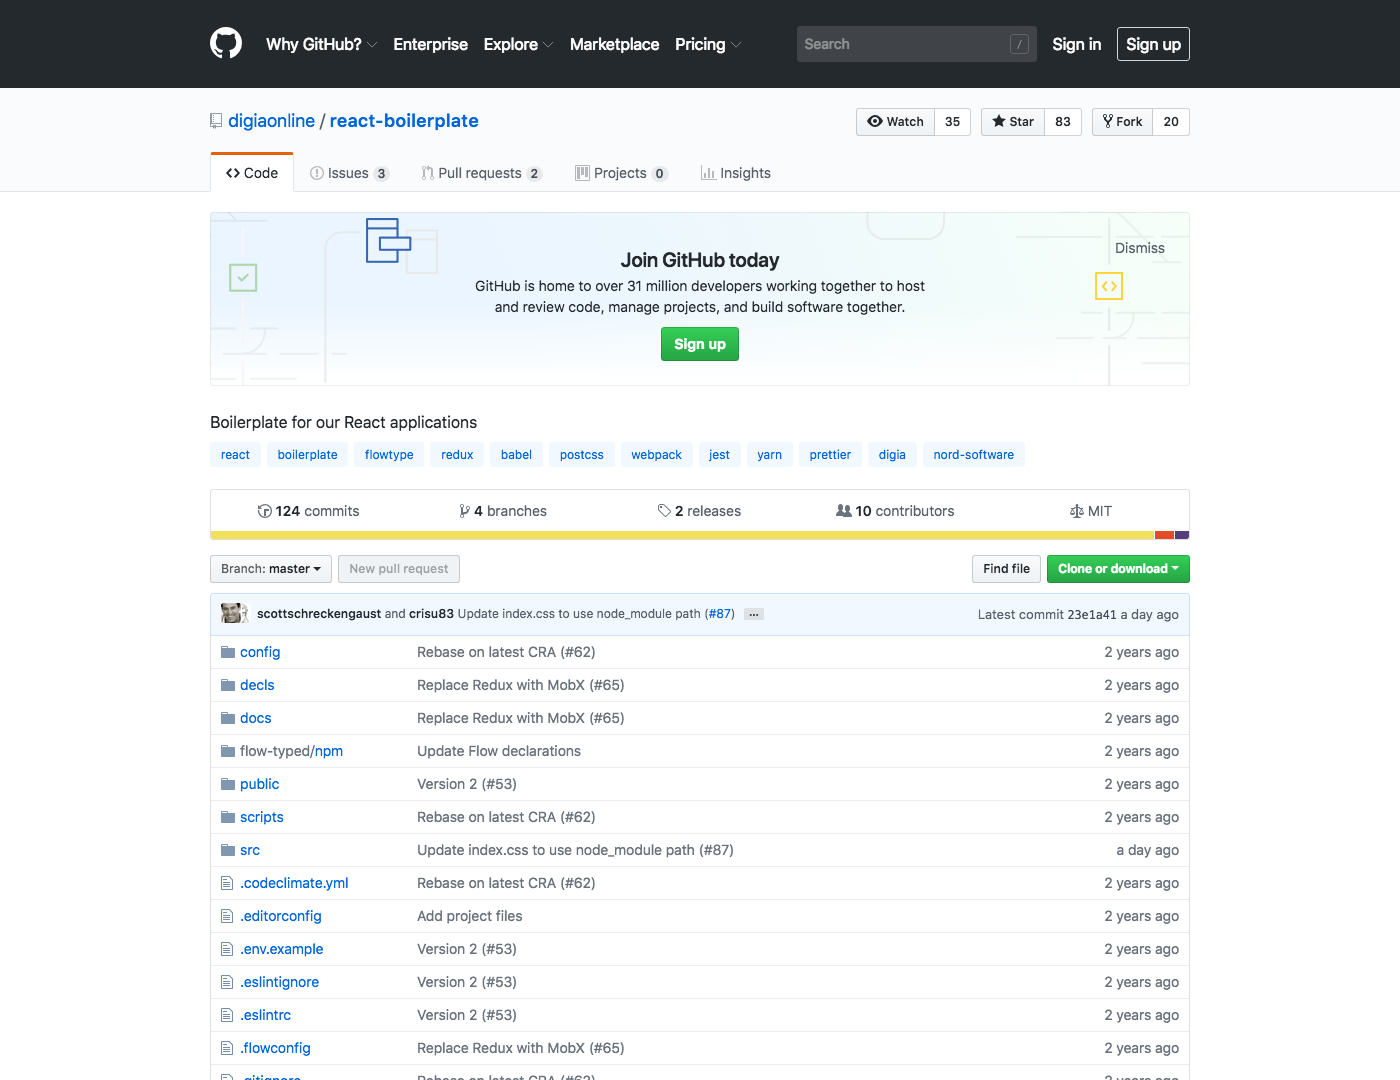
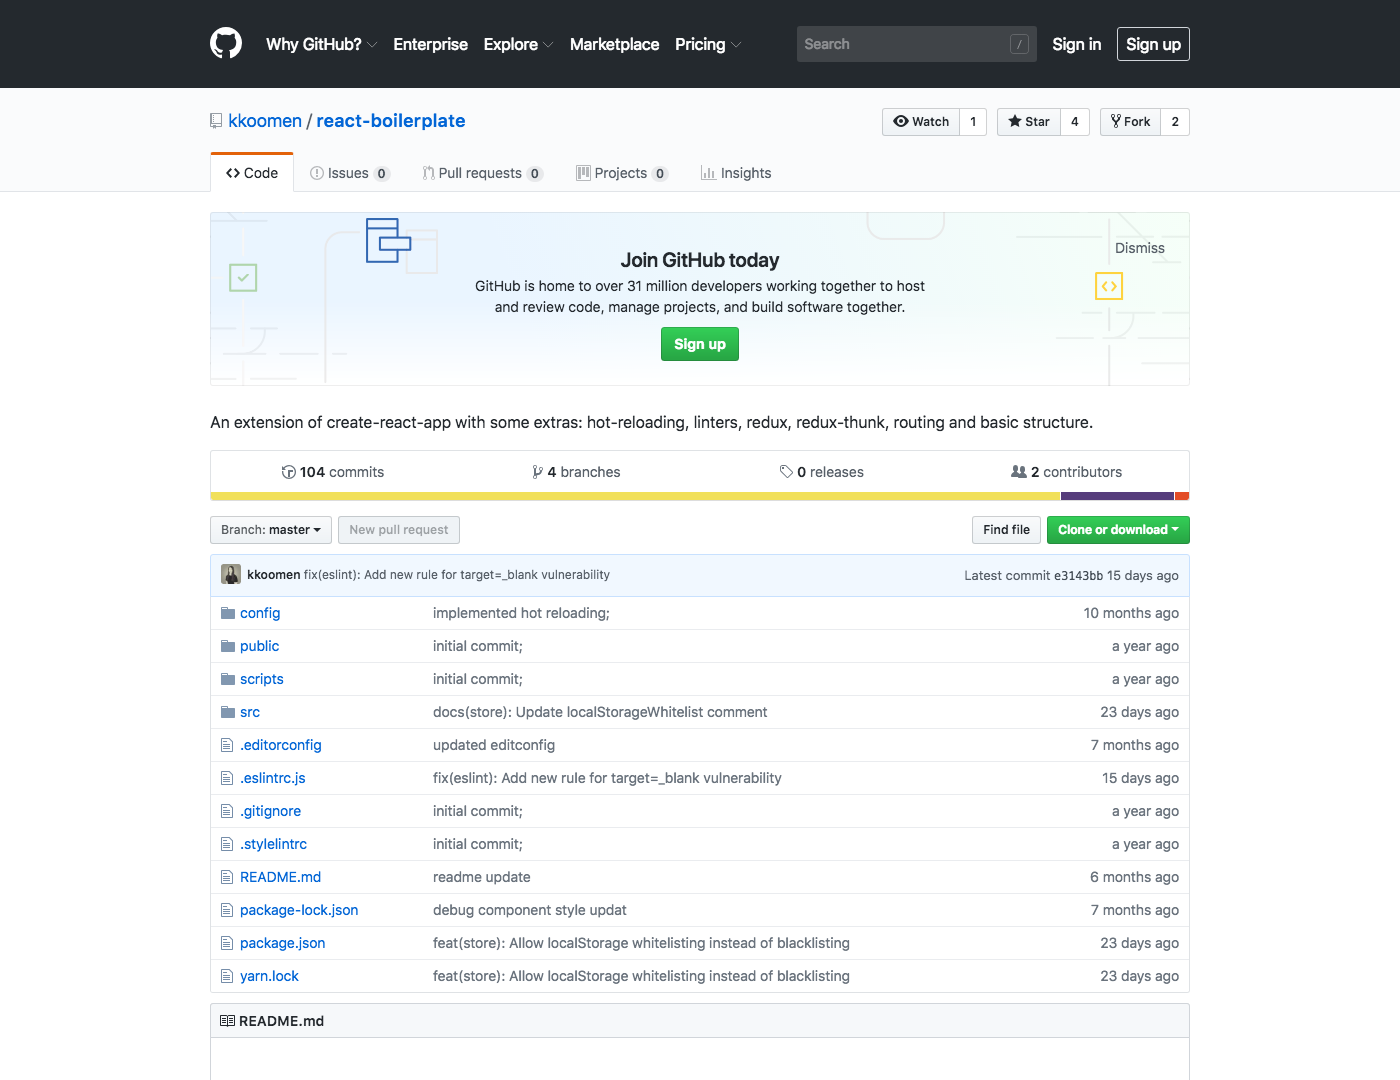
Added new material: @https://github.com/kkoomen/react-boilerplate

diff --git a/src/materials/Boilerplates/react-boilerplate/react-boilerplate.md b/src/materials/Boilerplates/react-boilerplate/react-boilerplate.md
@@ -4,114 +4,75 @@ type: 'GitHub'
 img: './screenshot.png'
 material:
   title: 'react-boilerplate'
-  url: 'https://github.com/digiaonline/react-boilerplate'
-  github_url: 'https://github.com/digiaonline/react-boilerplate'
-  subscribers_count: '35'
-  stargazers_count: '83'
-  tags: ['babel','boilerplate','digia','flowtype','jest','nord-software','postcss','prettier','react','redux','webpack','yarn']
-  subtitle: 'Boilerplate for our React applications'
-  clone_url: 'https://github.com/digiaonline/react-boilerplate.git'
-  ssh_url: 'git@github.com:digiaonline/react-boilerplate.git'
-  pushed_at: '2019-02-09T17:23:42Z'
-  updated_at: '2019-02-09T17:23:44Z'
+  url: 'https://github.com/kkoomen/react-boilerplate'
+  github_url: 'https://github.com/kkoomen/react-boilerplate'
+  subscribers_count: '1'
+  stargazers_count: '4'
+  tags: ['']
+  subtitle: 'An extension of create-react-app with some extras: hot-reloading, linters, redux, redux-thunk, routing and basic structure.'
+  clone_url: 'https://github.com/kkoomen/react-boilerplate.git'
+  ssh_url: 'git@github.com:kkoomen/react-boilerplate.git'
+  pushed_at: '2019-01-26T16:33:01Z'
+  updated_at: '2019-01-26T16:32:00Z'
   author:
-    name: 'digiaonline'
-    avatar: 'https://avatars3.githubusercontent.com/u/2654995?v=4'
-    github_url: 'https://github.com/digiaonline'
+    name: 'kkoomen'
+    avatar: 'https://avatars3.githubusercontent.com/u/10693490?v=4'
+    github_url: 'https://github.com/kkoomen'
   latestRelease:
-    tag_name: '3.0.0'
-    name: 'Version 3'
-    url: 'https://github.com/digiaonline/react-boilerplate/releases/tag/3.0.0'
-    created_at: '2017-09-02T09:44:48Z'
+    tag_name: null
+    name: null
+    url: null
+    created_at: null
 ---
-# React Boilerplate
+# React Redux Web
 
-[![Build Status](https://travis-ci.org/digiaonline/react-boilerplate.svg?branch=master)](https://travis-ci.org/digiaonline/react-boilerplate)
-[![Test Coverage](https://lima.codeclimate.com/github/digiaonline/react-boilerplate/badges/coverage.svg)](https://lima.codeclimate.com/github/digiaonline/react-boilerplate/coverage)
-[![Code Climate](https://codeclimate.com/github/digiaonline/react-boilerplate/badges/gpa.svg)](https://codeclimate.com/github/digiaonline/react-boilerplate)
-[![License](https://img.shields.io/badge/license-MIT-blue.svg)](LICENSE)
+An extension of create-react-app (ejected) with some extras:
 
-A [Digia](https://github.com/digiaonline/) project.
+- hot reloading :fire:
+- linters
+- redux
+- redux-thunk
+- routing
+- ImmutableJS
+- local storage (for the redux state)
+- basic structure
 
-## Why do I want this?
+This extension also has built-in support for the following extensions:
 
-As you probably know, there are numerous boilerplates available for [React](https://facebook.github.io/react/), so you might be wondering why you would want to use ours. Most of the boilerplate projects come with a lot of code that you rarely need. Our boilerplate was bootstrapped with [Create React App](https://github.com/facebookincubator/create-react-app) and provides you with a great starting point for any React project with as few lines of code as possible, especially if you want to use [Flowtype](https://flowtype.org/).
+- [Redux DevTools Extension](https://github.com/zalmoxisus/redux-devtools-extension#installation)
 
-## What do I need to get started?
+## Branches
 
-- [Node](https://nodejs.org/en/download/) (version 6 or later)
-- [Yarn](https://yarnpkg.com/lang/en/docs/install/)
+- `immutablejs-excluded`: An duplicate of the master branch, excluding immutableJS.
+- `immutablejs-excluded--bootstrap-4`: An duplicate of the `immutablejs-excluded` branch, including bootstrap 4.
+- `bootstrap-4`: A duplicate of the master branch, including bootstrap 4.
 
-## What's in the box?
+# Getting started
 
-- [Flowtype](https://flowtype.org/) Type checker
-- [React](https://facebook.github.io/react/) User interface components
-- [MobX](https://mobx.js.org/) Simple, scalable state management
-- [Lodash](https://lodash.com/) Utility library
-- [Babel](https://babeljs.io/) JavaScript transpiler
-- [ESLint](http://eslint.org/) JavaScript Linter
-- [Prettier](https://github.com/prettier/prettier) Code formatter
-- [PostCSS](http://postcss.org/) CSS transformer
-- [Stylelint](https://stylelint.io/) CSS Linter
-- [Webpack](https://webpack.js.org/) Module bundler
-- [Jest](https://facebook.github.io/jest/) Testing solution
+- Clone the repository
+- (optional, but recommended) Go into `package.json` and set the `name` property
+  at the top to your new project its name. This will also set local storage keys
+  automatically correct.
+- Run `npm install`
+- Run `npm start`
 
-## How do I use this?
+# Linting
 
-You can find our documentation [here](./docs/README.md).
+All rules within linting are set to a warning, except for those that are
+definitely a no-op, such as deprecated functions, or really bad ways of handling
+code such as the use of `eval()`. Linters should suggest, not force.
 
-## Usage
+If you find any rules that are left out or should be different, feel free to
+make a pull request.
 
-### Create project
+# Handy tools
 
-Install [create-project](https://www.npmjs.com/package/create-project) and create your project.
+Optional extensions that might be handy.
 
-```bash
-yarn global add create-project
-create-project my-project digiaonline/react-boilerplate && cd my-project
-```
+### Chrome
 
-### Install dependencies
+- [ImmutableJS Object Formatter](https://chrome.google.com/webstore/detail/immutablejs-object-format/hgldghadipiblonfkkicmgcbbijnpeog)
 
-Install the project dependencies using Yarn.
+### Template generators
 
-```bash
-yarn
-```
-
-### Create the environment
-
-Create your environment by copying the example environment.
-
-```bash
-cp .env.example .env
-```
-
-### Development server
-
-You can start the development server with the `start` script.
-
-```bash
-yarn start
-```
-
-### Distribution build
-
-You can compile the distribution build with the `build` script.
-
-```bash
-yarn build
-```
-## Test
-
-### Test suite
-
-You can run the test suite with the `test` script.
-
-```bash
-yarn test
-```
-
-## License
-
-[MIT](LICENSE)
+- [cra-gen](https://github.com/kkoomen/cra-gen)
